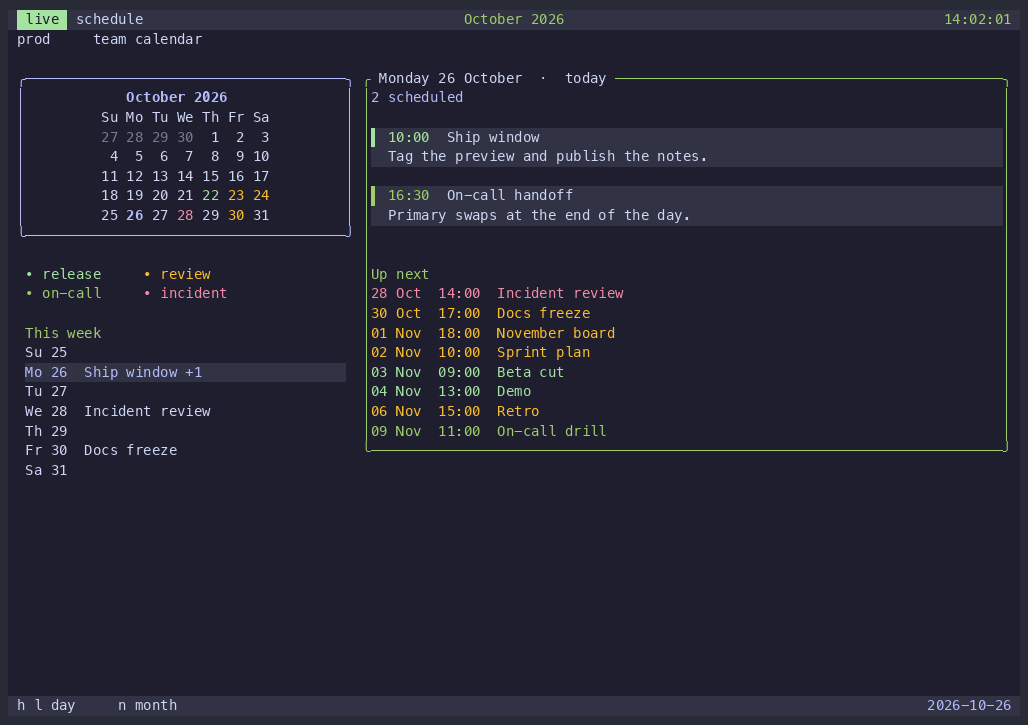
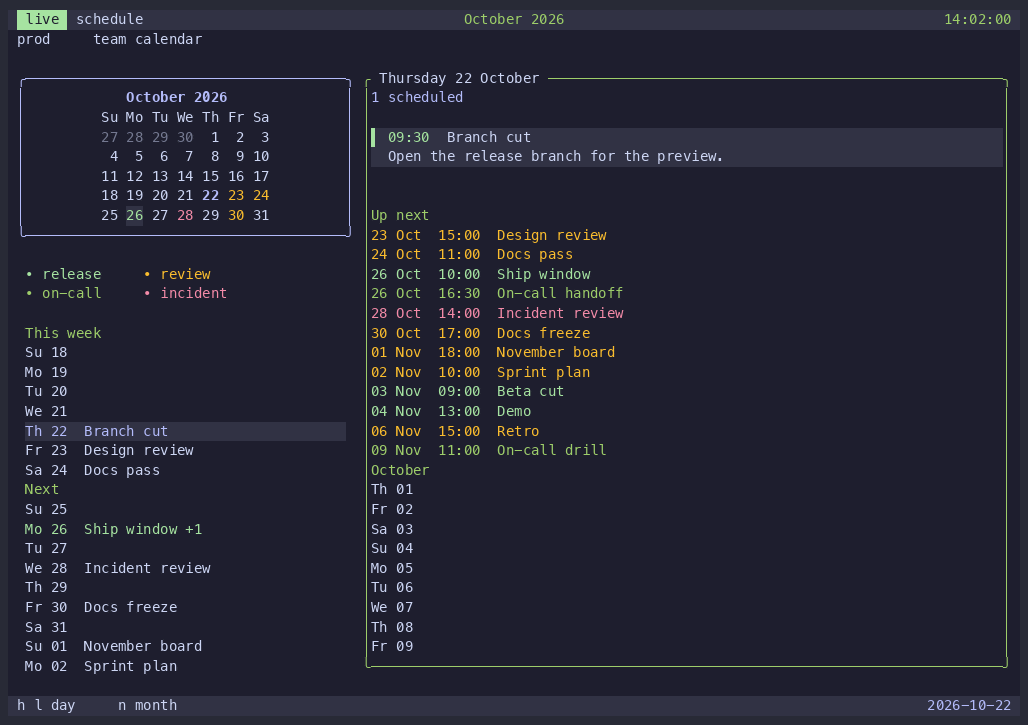
Fill the calendar gallery screen
The agenda and the week list run to the footer. The side-by-side recording pads an odd frame height.

diff --git a/examples/widget_preview.rs b/examples/widget_preview.rs
@@ -546,6 +546,32 @@ fn week_line(date: Date) -> String {
     }
 }
 
+fn paint_day_row(cx: &mut RenderCx<'_>, scene: &Scene, x: u16, y: u16, width: u16, date: Date) {
+    let picked = date == scene.selected;
+    let text = Style::new().fg(scene.ink.text).bg(scene.ink.surface);
+    let style = if picked {
+        Style::new().fg(scene.ink.focus).bg(scene.ink.raised)
+    } else if date == scene.today {
+        Style::new().fg(scene.ink.ok).bg(scene.ink.surface)
+    } else {
+        text
+    };
+    if picked {
+        cx.set_style(
+            Rect::new(x, y, width, 1),
+            Style::new().fg(scene.ink.text).bg(scene.ink.raised),
+        );
+    }
+    paint(
+        cx,
+        x,
+        y,
+        width,
+        &week_line(date),
+        if picked { bold(style) } else { style },
+    );
+}
+
 fn draw_week(cx: &mut RenderCx<'_>, scene: &Scene, area: Rect) {
     if area.height < 4 || area.width < 12 {
         return;
@@ -554,38 +580,23 @@ fn draw_week(cx: &mut RenderCx<'_>, scene: &Scene, area: Rect) {
     paint(cx, area.x, area.y, area.width, "This week", bold(label));
     let index = weekday_index(scene.selected);
     let sunday = add_days(scene.selected, -i32::try_from(index).unwrap_or(0));
-    let text = Style::new().fg(scene.ink.text).bg(scene.ink.surface);
-    for offset in 0_i32..7 {
-        let y = area
-            .y
-            .saturating_add(1)
-            .saturating_add(u16::try_from(offset).unwrap_or(0));
-        if y >= area.y.saturating_add(area.height) {
-            break;
+    let bottom = area.y.saturating_add(area.height);
+    let mut row = area.y.saturating_add(1);
+    let mut offset = 0_i32;
+    let mut labeled_next = false;
+    while row < bottom {
+        if offset >= 7 && !labeled_next {
+            if row.saturating_add(1) >= bottom {
+                break;
+            }
+            paint(cx, area.x, row, area.width, "Next", bold(label));
+            labeled_next = true;
+            row = row.saturating_add(1);
+            continue;
         }
-        let date = add_days(sunday, offset);
-        let picked = date == scene.selected;
-        let style = if picked {
-            Style::new().fg(scene.ink.focus).bg(scene.ink.raised)
-        } else if date == scene.today {
-            Style::new().fg(scene.ink.ok).bg(scene.ink.surface)
-        } else {
-            text
-        };
-        if picked {
-            cx.set_style(
-                Rect::new(area.x, y, area.width, 1),
-                Style::new().fg(scene.ink.text).bg(scene.ink.raised),
-            );
-        }
-        paint(
-            cx,
-            area.x,
-            y,
-            area.width,
-            &week_line(date),
-            if picked { bold(style) } else { style },
-        );
+        paint_day_row(cx, scene, area.x, row, area.width, add_days(sunday, offset));
+        offset = offset.saturating_add(1);
+        row = row.saturating_add(1);
     }
 }
 
@@ -626,29 +637,35 @@ fn upcoming_count(selected: Date) -> u16 {
     count
 }
 
-fn agenda_inner_height(scene: &Scene) -> u16 {
-    let count = ENTRIES
-        .iter()
-        .filter(|entry| on_day(entry, scene.selected))
-        .count();
-    let mut rows = 2_u16;
-    if count == 0 {
-        rows = rows.saturating_add(1);
-    } else {
-        rows = rows.saturating_add(u16::try_from(count).unwrap_or(0).saturating_mul(3));
+fn draw_month_ledger(cx: &mut RenderCx<'_>, scene: &Scene, area: Rect, y: u16) {
+    let bottom = area.y.saturating_add(area.height);
+    if y.saturating_add(1) >= bottom {
+        return;
     }
-    let upcoming = upcoming_count(scene.selected);
-    if upcoming > 0 {
-        rows = rows.saturating_add(2).saturating_add(upcoming);
+    paint(
+        cx,
+        area.x,
+        y,
+        area.width,
+        month_name(scene.selected),
+        bold(Style::new().fg(scene.ink.accent).bg(scene.ink.surface)),
+    );
+    let start =
+        Date::from_ymd(scene.selected.year(), scene.selected.month(), 1).unwrap_or(scene.selected);
+    let mut line = y.saturating_add(1);
+    let mut offset = 0_i32;
+    while line < bottom {
+        paint_day_row(cx, scene, area.x, line, area.width, add_days(start, offset));
+        offset = offset.saturating_add(1);
+        line = line.saturating_add(1);
     }
-    rows
 }
 
-fn draw_up_next(cx: &mut RenderCx<'_>, scene: &Scene, area: Rect, y: u16) {
+fn draw_up_next(cx: &mut RenderCx<'_>, scene: &Scene, area: Rect, y: u16) -> u16 {
     if upcoming_count(scene.selected) == 0
         || y.saturating_add(1) >= area.y.saturating_add(area.height)
     {
-        return;
+        return y;
     }
     paint(
         cx,
@@ -687,6 +704,7 @@ fn draw_up_next(cx: &mut RenderCx<'_>, scene: &Scene, area: Rect, y: u16) {
             line = line.saturating_add(1);
         }
     }
+    line
 }
 
 fn draw_agenda(cx: &mut RenderCx<'_>, scene: &Scene, area: Rect) {
@@ -754,7 +772,8 @@ fn draw_agenda(cx: &mut RenderCx<'_>, scene: &Scene, area: Rect) {
     } else {
         y = y.saturating_add(1);
     }
-    draw_up_next(cx, scene, inner, y);
+    let next = draw_up_next(cx, scene, inner, y);
+    draw_month_ledger(cx, scene, inner, next);
 }
 
 fn draw_board(cx: &mut RenderCx<'_>, scene: &Scene) {
@@ -777,11 +796,6 @@ fn draw_board(cx: &mut RenderCx<'_>, scene: &Scene) {
         Rect::new(2, y, left_w.saturating_sub(2), bottom.saturating_sub(y)),
     );
     let agenda_x = left_w.saturating_add(2);
-    let available = bottom.saturating_sub(top);
-    let agenda_h = agenda_inner_height(scene)
-        .saturating_add(2)
-        .min(available)
-        .max(8.min(available));
     draw_agenda(
         cx,
         scene,
@@ -789,7 +803,7 @@ fn draw_board(cx: &mut RenderCx<'_>, scene: &Scene) {
             agenda_x,
             top,
             scene.width.saturating_sub(agenda_x).saturating_sub(1),
-            agenda_h,
+            bottom.saturating_sub(top),
         ),
     );
 }

diff --git a/CHANGELOG.md b/CHANGELOG.md
@@ -16,7 +16,8 @@ Every PR adds its entry under **Unreleased**.
 
 ### Changed
 
-- The calendar gallery walks from the branch cut into the next month and ends on the on-call drill. The agenda card fits that day's events.
+- The calendar gallery walks from the branch cut into the next month and ends on the on-call drill. The agenda and the week list fill the screen.
+- Widget recordings pad the side-by-side frame so an odd height still encodes.
 - The big text gallery is a cutover board: a live clock, a countdown that reaches zero, ticking metrics, a moving selection, and an error count that turns red while it is hot.
 - Big text digits, capitals, and `:.-%` use an 8×8 bitmap derived from Press Start 2P (SIL Open Font License 1.1, `lunatui-widgets/assets/fonts/PressStart2P-OFL.txt`). Other printable ASCII is a hollow box. Full blocks are two columns wide. Sextants pad one blank pixel row. The gallery draws those digits with the square-pixel sizes.
 

diff --git a/README.md b/README.md
@@ -49,7 +49,7 @@ A team schedule: the month beside that day's agenda, colored release, review, on
 
 ![Calendar widget: a team schedule in the dark theme](docs/media/calendar.gif)
 
-Screenshot: [docs/media/calendar.png](docs/media/calendar.png). Recorded with `scripts/record-showcase.sh` (`CASE=calendar`, 120×36, dark, about 11 seconds).
+Screenshot: [docs/media/calendar.png](docs/media/calendar.png). Recorded with `scripts/record-widget.sh` (`CASE=calendar`, 120×36, dark, about 11 seconds).
 
 ### BigText
 
